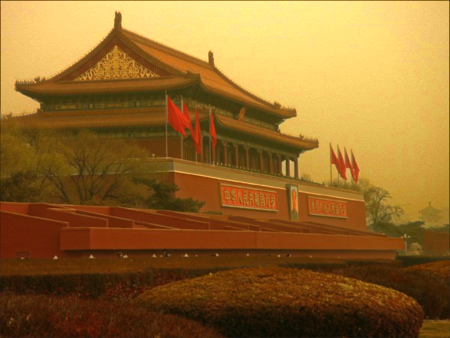
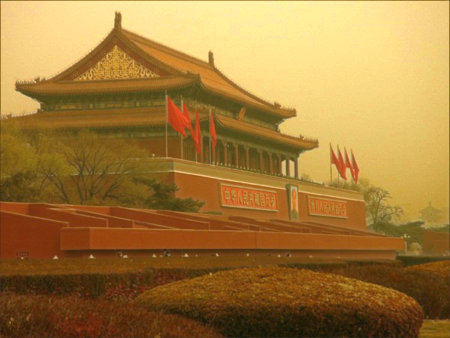
add gamma

diff --git a/dehaze-cpp/haze.cpp b/dehaze-cpp/haze.cpp
@@ -4,22 +4,25 @@
 
 Haze::Haze()
 {
-    percent = 0.01;
+    percent = 0.1;
     minTrans = 0.25;
     guidedKernel = 10;
     darkKernel = 3;
     guidedE = 0.000001;
+    gammaGain = 0.8;
 }
 
 void Haze::dehaze( cv::Mat &src_image, cv::Mat &dehaze_image )
 {
     float scale = 1/255.0;
     float atom_mean = 0.0;
+    float avg_mean = 0.0;
+    float gamma = 0.8;
     cv::Mat img_gray;
 
     cv::cvtColor( src_image, img_gray, cv::COLOR_BGR2GRAY );
 
-    get_atmo( img_gray, atom_mean, percent );
+    get_atmo( img_gray, atom_mean, avg_mean, percent );
 
     cv::Mat image_f;
 
@@ -43,7 +46,7 @@ void Haze::dehaze( cv::Mat &src_image, cv::Mat &dehaze_image )
 
     trans_guided = cv::max( trans_guided, minTrans );
 
-    dehaze_image = cv::Mat::zeros( src_image.rows, src_image.cols, CV_8UC3 );
+    cv::Mat s_dehaze_image = cv::Mat::zeros( src_image.rows, src_image.cols, CV_8UC3 );
 
     int i;
     int j;
@@ -55,12 +58,12 @@ void Haze::dehaze( cv::Mat &src_image, cv::Mat &dehaze_image )
     int cp_v_b;
     int cp_v_g;
     int cp_v_r;
-    for( i = 0; i < dehaze_image.rows; ++i )
+    for( i = 0; i < s_dehaze_image.rows; ++i )
     {
-        line_de = dehaze_image.ptr<uchar>(i);
+        line_de = s_dehaze_image.ptr<uchar>(i);
         line_src = src_image.ptr<uchar>(i);
         line_guid = trans_guided.ptr<float>(i);
-        for( j  = 0; j < dehaze_image.cols; ++j )
+        for( j  = 0; j < s_dehaze_image.cols; ++j )
         {
             guid_pix = line_guid[ j ];
             pix_channel = line_src[ j * 3     ] * scale;
@@ -79,15 +82,17 @@ void Haze::dehaze( cv::Mat &src_image, cv::Mat &dehaze_image )
             line_de[ j * 3 + 2 ] = cp_v_r;
         }
     }
+    gamma = 1.0 - gammaGain * ( atom_mean - avg_mean );
+    gamma_lut( s_dehaze_image, dehaze_image, gamma );
 }
 
-void Haze::set_param( float st_percent, float min_trans, int guide_kernel, int dark_kernel, float e )
+void Haze::set_param(float st_percent, float min_trans, int guide_kernel, int dark_kernel, float gammaGain )
 {
     percent = st_percent;
     minTrans = min_trans;
     guidedKernel = guide_kernel;
     darkKernel = dark_kernel;
-    guidedE = e;
+    gammaGain = gammaGain;
 }
 
 void Haze::dark_channel(cv::Mat &image, cv::Mat &dc_img, int kernel_size )
@@ -104,7 +109,7 @@ void Haze::dark_channel(cv::Mat &image, cv::Mat &dc_img, int kernel_size )
     }
 }
 
-void Haze::get_atmo(cv::Mat &gray_image, float &atmo_mena, float percent)
+void Haze::get_atmo(cv::Mat &gray_image, float &atmo_mena, float &avg_mean, float percent)
 {
     cv::Mat hist;
 
@@ -114,17 +119,20 @@ void Haze::get_atmo(cv::Mat &gray_image, float &atmo_mena, float percent)
     float pix_size = 0;
     float bus_value = 0;
     int cur_pix_size;
+    float glog_value = 0;
     for( int pix_index = 255; pix_index > 1; --pix_index )
     {
         cur_pix_size = hist.at<int>(pix_index);
-        pix_size += cur_pix_size;
-        bus_value += cur_pix_size * pix_index;
-        if( pix_size > stit_size )
+        glog_value += cur_pix_size * pix_index;
+        if( pix_size < stit_size )
         {
-            break;
+
+            pix_size += cur_pix_size;
+            bus_value += cur_pix_size * pix_index;
         }
     }
     atmo_mena = bus_value / ( pix_size * 255.0 );
+    avg_mean = glog_value / ( gray_image.cols * gray_image.rows * 255.0 );
 }
 
 void Haze::get_trans( cv::Mat &image, cv::Mat &image_t, float atom, float w )
@@ -201,6 +209,21 @@ void Haze::hist_gray( const cv::Mat &gray_image, cv::Mat &hist )
     }
 }
 
+
+void Haze::gamma_lut( const cv::Mat &input_image, cv::Mat &out_image, float gamma )
+{
+    uchar lutData[256];
+
+    for (int i = 0; i<256; i++)
+    {
+         lutData[i] = pow((float)(i/255.0), gamma) * 255.0;
+    }
+    cv::Mat lut(1, 256, CV_8UC1, lutData);
+
+
+    cv::LUT(input_image, lut, out_image);
+
+}
 
 
 

diff --git a/dehaze-python/dehaze.py b/dehaze-python/dehaze.py
@@ -2,6 +2,7 @@
 import cv2
 import numpy as np
 import argparse
+import glob
 
 
 def dark_channel(img, size = 7):
@@ -16,7 +17,10 @@ def get_atmo(img, percent =0.1):
     mean_perpix = np.mean(img, axis = 2).reshape(-1)
     mean_perpix = np.sort(mean_perpix)
     mean_topper = mean_perpix[int(img.shape[0] * img.shape[1] * (1-percent) ):]
-    return np.mean(mean_topper)
+
+    atmo = np.mean(mean_topper)
+    avg_bir =  np.mean(mean_perpix)
+    return atmo, avg_bir
 
 
 def get_trans(img, atom, w = 0.95):
@@ -58,39 +62,57 @@ def dehaze(path, output = None, is_save = True):
     img = im.astype('float64') / 255
     img_gray = cv2.cvtColor(im, cv2.COLOR_BGR2GRAY).astype('float64') / 255
 
-    atom = get_atmo(img)
+    atom, avg_bir = get_atmo(img)
 
     trans = get_trans(img, atom)
-    trans_guided = guided_filter(trans, img_gray, 10, 0.0001)
+    trans_guided = guided_filter(trans, img_gray, 5, 0.0001)
     trans_guided = cv2.max(trans_guided, 0.25)
 
     result = np.empty_like(img)
     for i in range(3):
         result[:, :, i] = (img[:, :, i] - atom) / trans_guided + atom
+    result = result*255
+    result[result[:,:,:] > 255] = 255
+    result[result[:,:,:] < 0] = 0
+    result = result.astype('uint8')
+    gamma = 1.0 - 0.8 * ( atom - avg_bir )
+    lut_table = [0]*256
+
+    for i in range(256):
+        lut_table[i] = pow( i / 255.0, gamma ) * 255.0
+    n_lut = np.array(lut_table).clip(0,255).astype('uint8')
+    lut = np.dstack((n_lut, n_lut, n_lut))
+
+    result = cv2.LUT(result, lut) 
 
     cv2.imshow("source",img)
     cv2.imshow("result", result)
-    cv2.waitKey()
+    cv2.waitKey(3000)
     
     if output is not None and is_save:
-        cv2.imwrite(output, result * 255)
+        name_sp = path.split('/')[-1]
+        save_path = output + '/' + name_sp
+        cv2.imwrite(save_path, result)
+
+    
 
 
-default_image = 'foggyHouse.jpg'
-src_path = 'image/'
-result_path = 'result02/'
+
+default_image = 'channel_01.jpg'
+src_path = 'dehaze-python/image/*'
+result_path = 'dehaze-python/result02/'
 src_image = src_path + default_image
 result_image = result_path + default_image
 parser = argparse.ArgumentParser()
 
-parser.add_argument('-i', '--input', type=str, default=src_image)
-parser.add_argument('-o', '--output', type=str, default=result_image)
+parser.add_argument('-i', '--input', type=str, default=src_path)
+parser.add_argument('-o', '--output', type=str, default=result_path)
 parser.add_argument('-is_save', '--is_save', type=bool, default=True)
 args = parser.parse_args()
 
 
 if __name__ == '__main__':
-    if args.input is None:
-        dehaze('image/canon3.bmp')
-    else:
-        dehaze(args.input, args.output, args.is_save)
+
+    image_list = glob.glob( args.input )
+    for index, image_file in enumerate(image_list):
+        dehaze(image_file, args.output, args.is_save)

diff --git a/dehaze-cpp/haze.h b/dehaze-cpp/haze.h
@@ -26,7 +26,7 @@ public:
      *      dark_kernel  3 ~ 20
      *      e            0.0~0.00001
      ******************/
-    void set_param( float st_percent, float min_trans, int guide_kernel, int dark_kernel, float e );
+    void set_param( float st_percent, float min_trans, int guide_kernel, int dark_kernel, float gammaGain );
 
 private:
     float percent;
@@ -34,13 +34,15 @@ private:
     int guidedKernel;
     int darkKernel;
     float guidedE;
+    float gammaGain;
 
 protected:
     void dark_channel( cv::Mat &image, cv::Mat &dc_img, int kernel_size = 5 );
-    void get_atmo(cv::Mat &gray_image, float &atmo_mena, float percent = 0.01 );
+    void get_atmo(cv::Mat &gray_image, float &atmo_mena, float &avg_mean, float percent = 0.01 );
     void get_trans( cv::Mat &image, cv::Mat &image_t, float atom, float w = 0.95 );
     void guided_filter(cv::Mat &trans_image, cv::Mat &guidance_image, cv::Mat &filter_image, int kernel_r, float e );
     void hist_gray( const cv::Mat &gray_image, cv::Mat &hist );
+    void gamma_lut( const cv::Mat &input_image, cv::Mat &out_image, float gamma );
 };
 
 #endif // HAZE_H

diff --git a/dehaze-cpp/mainwindow.cpp b/dehaze-cpp/mainwindow.cpp
@@ -23,15 +23,23 @@ void MainWindow::test()
     cv::Mat load=cv::imread( load_image_file_name.toStdString() );
     cv::Mat result;
 
+    int64 start_t = cv::getTickCount();
+    haze.dehaze( load, result );
+    int64 end_t = cv::getTickCount();
+
+    float run_t = ( end_t - start_t ) * 1000.0 / cv::getTickFrequency();
+    std::cout << " dez:" << run_t << " ms" << std::endl;
+#if 0
     for( int i = 0; i < 1000; ++i)
     {
-        int64 start_t = cv::getTickCount();
+        start_t = cv::getTickCount();
         haze.dehaze( load, result );
-        int64 end_t = cv::getTickCount();
+        end_t = cv::getTickCount();
 
-        float run_t = ( end_t - start_t ) * 1000.0 / cv::getTickFrequency();
+        run_t = ( end_t - start_t ) * 1000.0 / cv::getTickFrequency();
         std::cout << " dez:" << run_t << " ms" << std::endl;
     }
+#endif
 
     cv::imshow( "src", load );
     cv::imshow( "result", result );

diff --git a/README.md b/README.md
@@ -7,7 +7,7 @@ Realizing Kaiming He's paper 'Single Image Haze Removal Using Dark Channel Prior
 - 改进原算法对大气光强计算算法
 - 优化参数提升暗通道精度
 - 优化参数提升透光率精度
-
+- 加入GAMMA亮度增强
 
 去雾前 | 去雾后 | 优化后
 ------------- | ------------- | -------------
